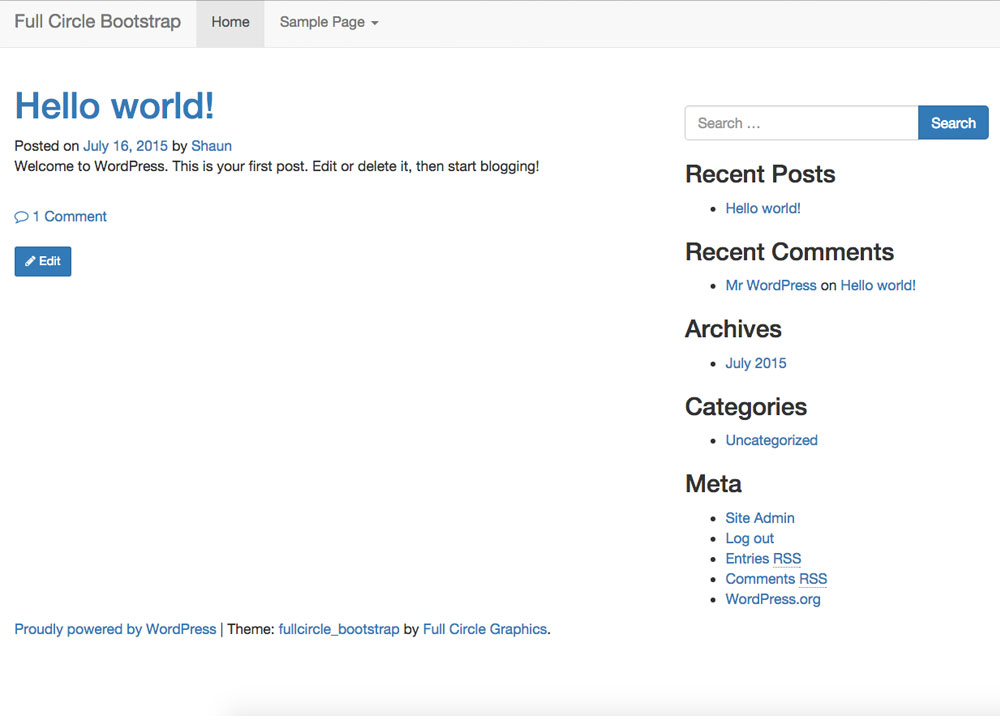
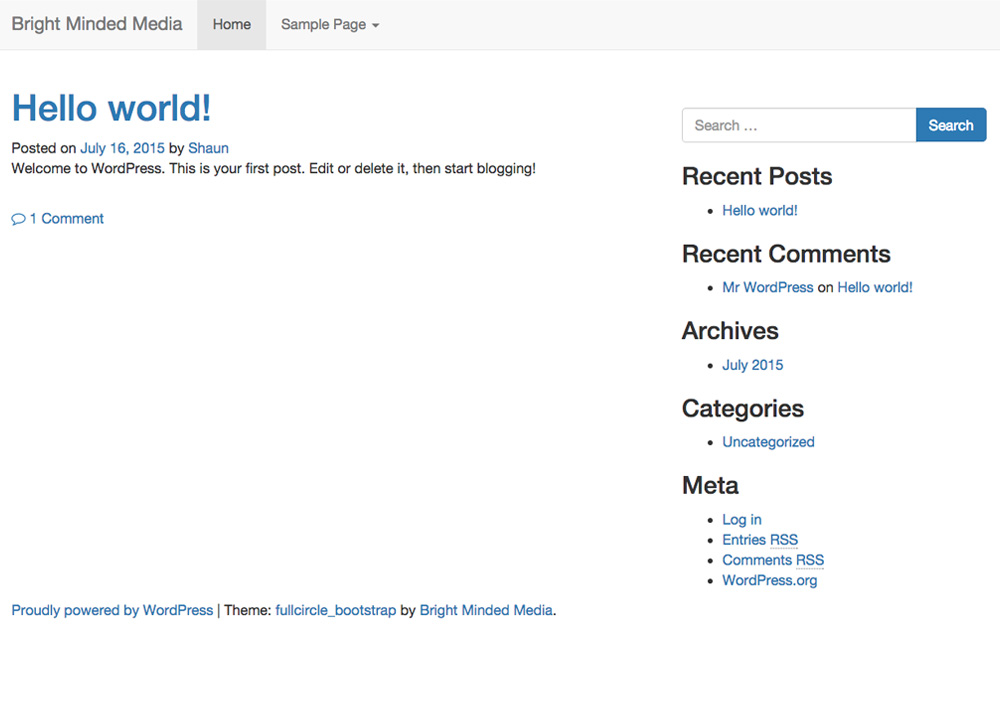
Updated author info

diff --git a/footer.php b/footer.php
@@ -20,7 +20,7 @@
 					<div class="site-info">
 						<a href="<?php echo esc_url( __( 'http://wordpress.org/', 'fullcircle_bootstrap' ) ); ?>"><?php printf( esc_html__( 'Proudly powered by %s', 'fullcircle_bootstrap' ), 'WordPress' ); ?></a>
 						<span class="sep"> | </span>
-						<?php printf( esc_html__( 'Theme: %1$s by %2$s.', 'fullcircle_bootstrap' ), '<a href="https://github.com/sparkison/fullcircle_bootstrap" target="_blank">fullcircle_bootstrap</a>', '<a href="http://www.fullcirclegfx.com/" target="_blank" rel="designer">Full Circle Graphics</a>' ); ?>
+						<?php printf( esc_html__( 'Theme: %1$s by %2$s.', 'fullcircle_bootstrap' ), '<a href="https://github.com/sparkison/fullcircle_bootstrap" target="_blank">fullcircle_bootstrap</a>', '<a href="http://www.brightmindedmedia.com/" target="_blank" rel="designer">Bright Minded Media</a>' ); ?>
 					</div><!-- .site-info -->
 				</footer><!-- #colophon -->
 			</div>
